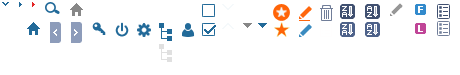
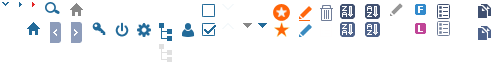
UI/UX - Edit layout for "Bet and Comm Setting"
edit layout for "bet and comm setting"

diff --git a/Apollo.CMS.Websites/Areas/CustomerSetting/Resources/BetAndCommSetting/betAndCommSetting.less b/Apollo.CMS.Websites/Areas/CustomerSetting/Resources/BetAndCommSetting/betAndCommSetting.less
@@ -1,4 +1,5 @@
 @import "../../../../Content/site/variables.less";
+@import "../../../../Content/site/mixins.less";
 
 .setting-form {
     margin-bottom: 5px;
@@ -13,14 +14,25 @@
             text-align: center;
             height: 26px;
             padding-top: 3px;
+            position: relative;
+
+            .icon-info {
+                position: absolute;
+                top: 6px;
+                right: 3px;
+            }
         }
 
         .commission-row {
-            padding: 5px 0;
+            padding: 0;
+            border-bottom: 1px solid #fff;
+             background-color: #fff;
 
             .label-col {
                 text-align: right;
-                height: 26px;
+                height: 28px;
+                background-color: #EAEBF0;
+                padding: 1px 4px;
 
                 label {
                     margin-top: 4px;
@@ -31,24 +43,107 @@
 
             .input-col {
                 .text-field {
-                    width: 105px;
+                    height: 20px;
                     text-align: right;
+                    margin: 4px 3%;
+                    color: @text-color;
+                    .border-radius(0);
                 }
             }
 
             .range-col {
-                padding-top: 3px;
+                padding-top: 5px;
                 height: 26px;
+                background-color: #fff;
+            }
+
+            &.bet-setting {
+                border-bottom: none;
+
+                .label-col {
+                   text-align: left;
+                   border-bottom: 1px solid #fff;
+                   height: 28px;
+                   padding: 5px;
+                   position: relative;
+
+                   .icon-coppy {
+                        position: absolute;
+                        right: 7px;
+                        top: 7px;
+                   }
+                }
+
+                .input-col .text-field {
+                    width: 94%;
+                }
+
+                .line-right {
+                    border-right: 1px solid #e5e5e5;
+                }
             }
         }
 
         .group-title {
             text-align: center;
             font-weight: bold;
+            background-color: #EAEBF0;
+            height: 30px;
+            padding: 5px 0;
+            border: 1px solid #fff;
+            border-width: 1px 0 1px 1px;
         }
 
         .commission-line {
             vertical-align: middle;
+            background-color: #EAEBF0;
+            height: 86px;
+            text-align: center;
+            line-height: 22px;
+            padding: 32px;
+
+            label {
+                font-weight: normal;
+            }
         }
+
+        .line-left {
+            border-left: 1px solid #fff;
+        }
+
+        &.member {
+            border-bottom: none;
+
+            .commission-row {
+                .input-col .text-field {
+                    width: 94%;
+                }
+            }
+        }
+
+        &.agent {
+             border-bottom: none;
+        }
+    }
+
+    .action {
+        margin-top: 10px;
+    }
+}
+
+/* Customize selectbox */
+.selectboxit-container {
+    .selectboxit {
+        border: 1px solid @border-color;
+    }
+
+    span, .selectboxit-options a {
+        height: 22px;
+    }
+
+    .selectboxit-text {
+        font-size: @font-size - 1;
+        line-height: 20px;
+        color: @text-color;
     }
 }

diff --git a/Apollo.CMS.Websites/Content/site/index.less b/Apollo.CMS.Websites/Content/site/index.less
@@ -60,6 +60,14 @@ input[type="text"] {
         outline: none;
         color: @button-color;
     }
+
+    /* Button */
+
+    &.btn-primary {
+        background-color: @primary-color;
+        padding: 2px 27px 3px;
+        margin-bottom: 20px;
+    }
 }
 
 /* Icon */
@@ -185,6 +193,24 @@ input[type="text"] {
 .icon-edit-link {
     .icon;
     background-position: -298px -24px;
+}
+
+.icon-info {
+    .icon;
+    background-position: -457px -26px;
+
+    &:hover {
+        background-position: -457px -4px;
+    }
+}
+
+.icon-coppy {
+    .icon;
+    background-position: -477px -26px;
+
+    &:hover {
+        background-position: -477px -4px;
+    }
 }
 
 /* Mixins */

diff --git a/Apollo.CMS.Websites/Areas/Message/Resources/NewMessage/newMessage.less b/Apollo.CMS.Websites/Areas/Message/Resources/NewMessage/newMessage.less
@@ -174,12 +174,3 @@
     top: 2px;
     cursor: auto;
 }
-
-/* Button */
-.btn {
-    &.btn-primary {
-        background-color: @primary-color;
-        padding: 2px 27px 3px;
-        margin-bottom: 20px;
-    }
-}
